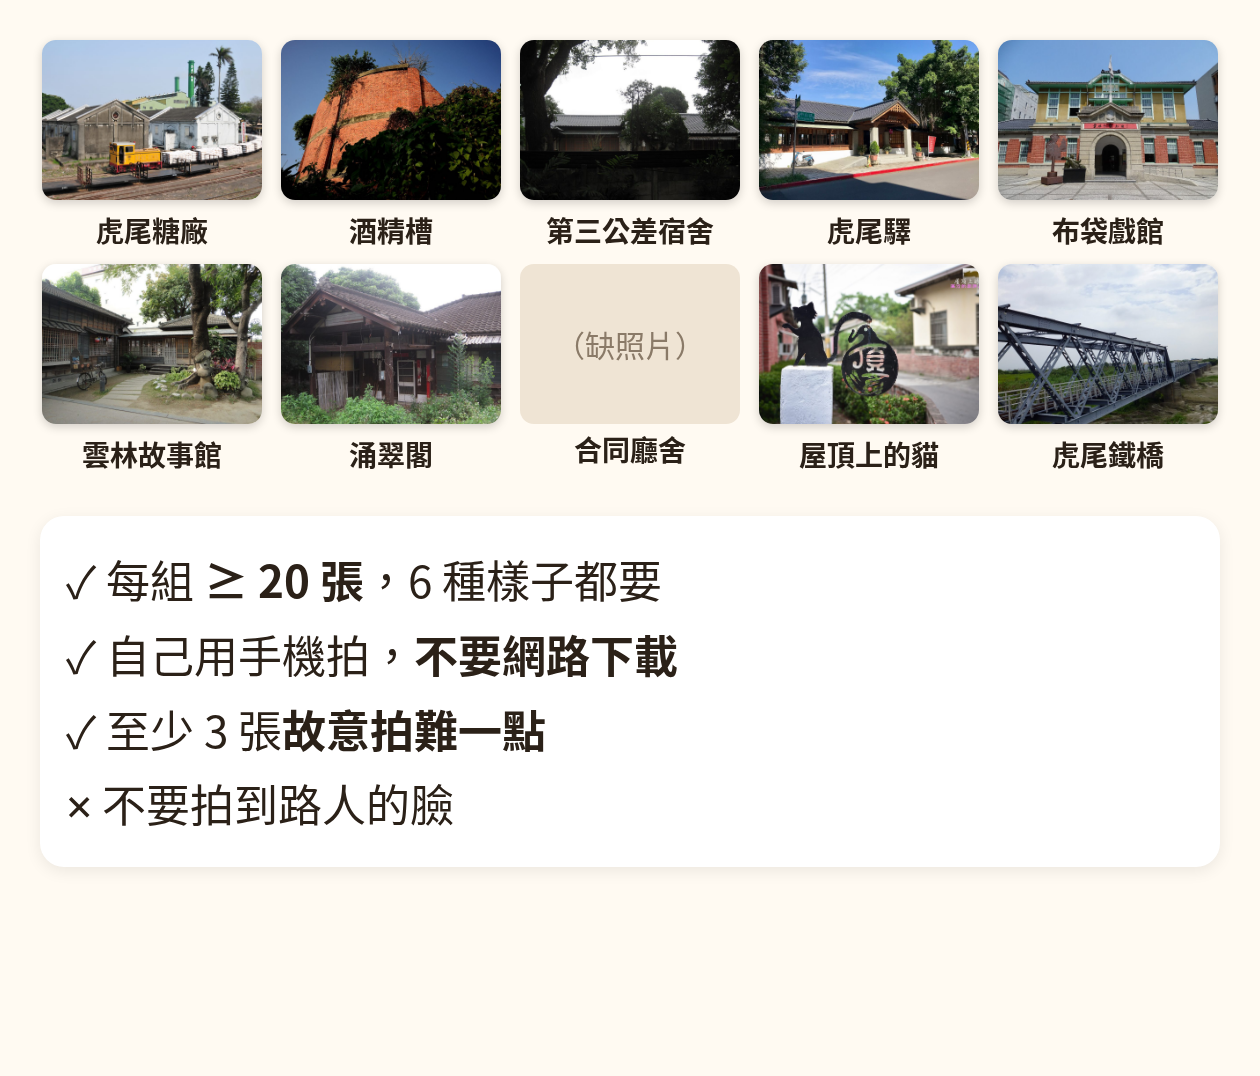
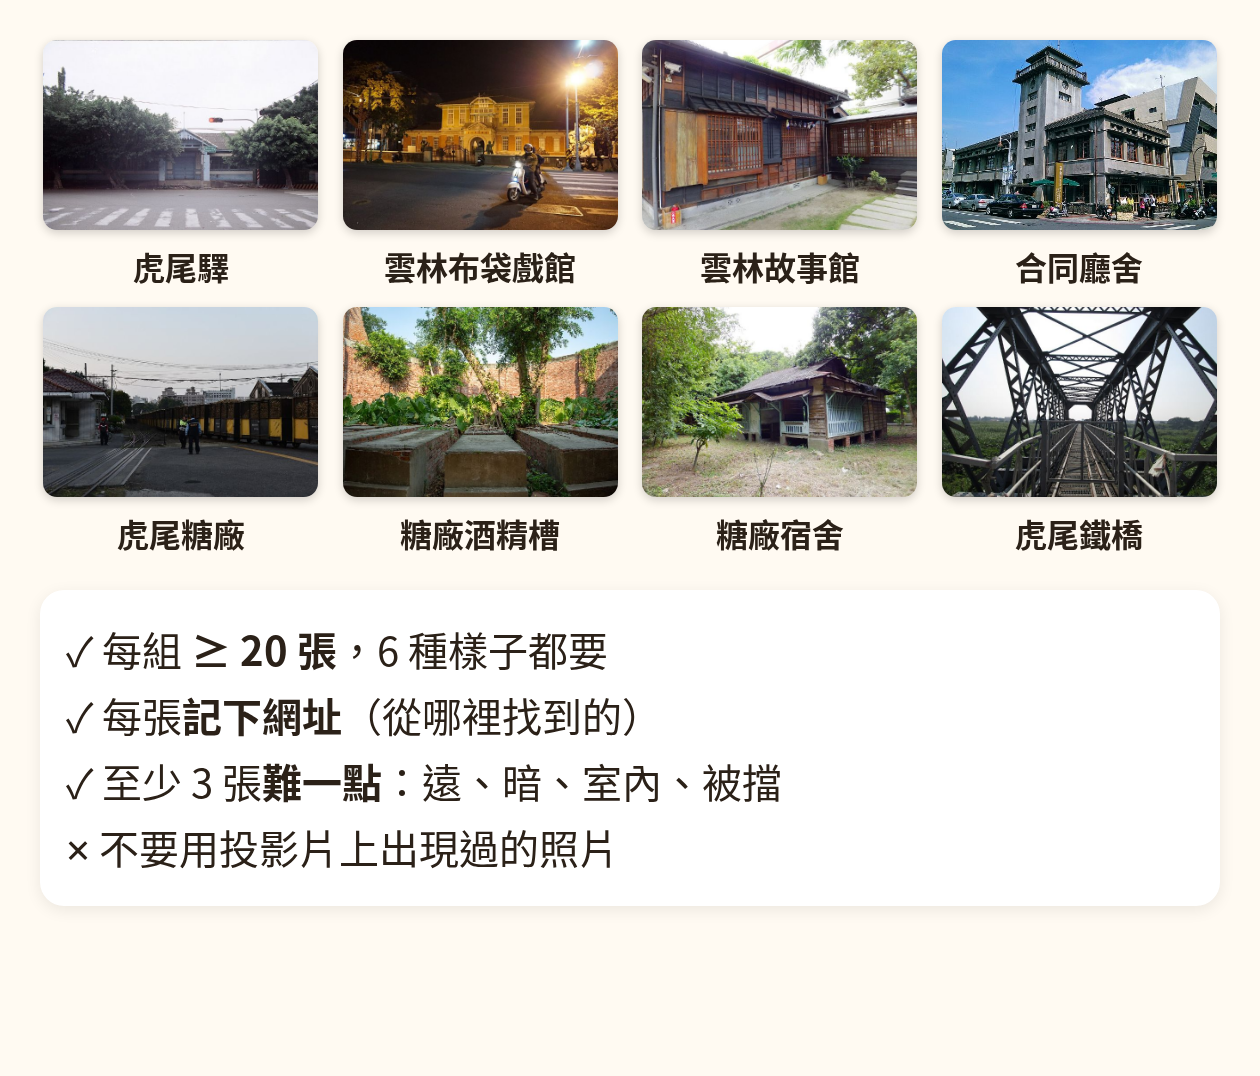
[pm] feat: 主軸改為網路找照片 / 測試 / LINE BOT

diff --git a/assets/src/s1-14-claim.html b/assets/src/s1-14-claim.html
@@ -1,18 +1,14 @@
-<!doctype html><meta charset="utf-8"><link rel="stylesheet" href="_sq.css"><style>.g{display:grid;grid-template-columns:repeat(5,1fr);gap:16px}.g div{text-align:center}
-.g img{width:220px;height:160px;object-fit:cover;border-radius:14px;box-shadow:0 3px 10px rgba(0,0,0,.18)}.g p{font-size:28px;font-weight:700;margin-top:8px;line-height:1.25}</style>
+<!doctype html><meta charset="utf-8"><link rel="stylesheet" href="_sq.css"><style>.g{display:grid;grid-template-columns:repeat(4,1fr);gap:18px}.g div{text-align:center}
+.g img{width:275px;height:190px;object-fit:cover;border-radius:14px;box-shadow:0 3px 10px rgba(0,0,0,.18)}.g p{font-size:32px;font-weight:700;margin-top:8px}</style>
 <div id="card" style="display:flex;flex-direction:column;gap:24px">
-<div class="g">
-<div><img src="../photos/虎尾糖廠-2-commons.jpg"><p>虎尾糖廠</p></div>
-<div><img src="../photos/虎尾糖廠酒精槽-1-commons.jpg"><p>酒精槽</p></div>
-<div><img src="../photos/虎尾糖廠第三公差宿舍-1-commons.jpg"><p>第三公差宿舍</p></div>
-<div><img src="../photos/虎尾驛-1-wiki.jpg"><p>虎尾驛</p></div>
-<div><img src="../photos/雲林布袋戲館-1-commons.jpg"><p>布袋戲館</p></div>
-<div><img src="../photos/雲林故事館-2-commons.jpg"><p>雲林故事館</p></div>
-<div><img src="../photos/涌翠閣-1-commons.jpg"><p>涌翠閣</p></div>
-<div><div style="width:220px;height:160px;border-radius:14px;background:#efe4d4;display:flex;align-items:center;justify-content:center;font-size:30px;margin:auto" class="muted">（缺照片）</div><p>合同廳舍</p></div>
-<div><img src="../photos/屋頂上的貓-2-commons.jpg"><p>屋頂上的貓</p></div>
-<div><img src="../photos/虎尾鐵橋-2-commons.jpg"><p>虎尾鐵橋</p></div>
-</div>
-<div class="box" style="font-size:44px;line-height:1.7;margin-top:20px">
-✓ 每組 <b>≥ 20 張</b>，6 種樣子都要<br>✓ 自己用手機拍，<b>不要網路下載</b><br>✓ 至少 3 張<b>故意拍難一點</b><br>✕ 不要拍到路人的臉</div>
+<div class="g"><div><img src="../photos/album/虎尾驛.jpg"><p>虎尾驛</p></div>
+<div><img src="../photos/album/雲林布袋戲館.jpg"><p>雲林布袋戲館</p></div>
+<div><img src="../photos/album/雲林故事館.jpg"><p>雲林故事館</p></div>
+<div><img src="../photos/album/合同廳舍.jpg"><p>合同廳舍</p></div>
+<div><img src="../photos/album/虎尾糖廠.jpg"><p>虎尾糖廠</p></div>
+<div><img src="../photos/album/糖廠酒精槽.jpg"><p>糖廠酒精槽</p></div>
+<div><img src="../photos/album/糖廠宿舍.jpg"><p>糖廠宿舍</p></div>
+<div><img src="../photos/album/虎尾鐵橋.jpg"><p>虎尾鐵橋</p></div></div>
+<div class="box" style="font-size:40px;line-height:1.65;margin-top:10px">
+✓ 每組 <b>≥ 20 張</b>，6 種樣子都要<br>✓ 每張<b>記下網址</b>（從哪裡找到的）<br>✓ 至少 3 張<b>難一點</b>：遠、暗、室內、被擋<br>✕ 不要用投影片上出現過的照片</div>
 </div>

diff --git a/assets/src/s1-06-oldnew.html b/assets/src/s1-06-oldnew.html
@@ -5,8 +5,8 @@
 <div class="c" style="border:6px dashed #c9b8a2"><div class="lbl muted">舊：專家寫規則</div>
 <div style="text-align:center;margin-top:20px;opacity:.75"><span class="tg">木造</span><span class="tg">黑瓦</span><span class="tg">和洋折衷</span><span class="tg">切妻屋頂</span><span class="tg">玄關車寄</span><span class="tg">雨淋板</span><span class="tg">千鳥破風</span><span class="tg">位於中山路上</span><span class="tg">紅磚基座</span><span class="tg">木格窗</span><span class="tg">七五三廂型雨庇</span><span class="tg">……</span></div>
 <div class="big bad" style="margin-top:auto">寫不完、會撞</div></div>
-<div class="c" style="border:6px solid #e8562a;background:#fff"><div class="lbl" style="color:#e8562a">新：大家拍照片</div>
+<div class="c" style="border:6px solid #e8562a;background:#fff"><div class="lbl" style="color:#e8562a">新：大家找照片</div>
 <div class="g" style="display:grid;grid-template-columns:1fr 1fr;gap:14px;margin-top:20px">
 <img src="../photos/虎尾鐵橋-1-wiki.jpg"><img src="../photos/虎尾鐵橋-2-commons.jpg"><img src="../photos/虎尾鐵橋-3-commons.jpg"><img src="../photos/虎尾鐵橋-4-commons.jpg"><img src="../photos/虎尾驛-0-manual.jpg"><img src="../photos/虎尾驛-2-commons.jpg"></div>
-<div class="big ok" style="margin-top:auto">越拍越準</div></div>
+<div class="big ok" style="margin-top:auto">照片越多越準</div></div>
 </div>

diff --git a/assets/src/s1-01-map.html b/assets/src/s1-01-map.html
@@ -1,7 +1,7 @@
 <!doctype html><meta charset="utf-8"><link rel="stylesheet" href="_sq.css"><style>.r{display:flex;gap:36px;align-items:center;height:316px}.r img{width:500px;height:300px}
 .d{font-size:40px;font-weight:700;color:#e8562a}.t{font-size:62px;font-weight:700;margin-top:8px}</style>
 <div id="card" style="display:flex;flex-direction:column;gap:14px">
-<div class="r"><img class="ph" src="../photos/虎尾驛-0-manual.jpg"><div><div class="d">第 1 週 · 11/23</div><div class="t">看懂 + 出去拍</div></div></div>
-<div class="r"><img class="ph" src="../photos/虎尾鐵橋-4-commons.jpg"><div><div class="d">第 2 週 · 11/30</div><div class="t">餵照片 + 考試</div></div></div>
-<div class="r"><img class="ph" src="../photos/雲林故事館-2-commons.jpg"><div><div class="d">第 3 週 · 12/7</div><div class="t">說故事 + 上台</div></div></div>
+<div class="r"><img class="ph" src="../photos/虎尾驛-0-manual.jpg"><div><div class="d">第 1 週 · 11/23</div><div class="t">看懂 + 網路找照片</div></div></div>
+<div class="r"><img class="ph" src="../photos/虎尾鐵橋-4-commons.jpg"><div><div class="d">第 2 週 · 11/30</div><div class="t">餵照片 + 測試</div></div></div>
+<div class="r"><img class="ph" src="../photos/雲林故事館-2-commons.jpg"><div><div class="d">第 3 週 · 12/7</div><div class="t">說故事 + LINE BOT</div></div></div>
 </div>
